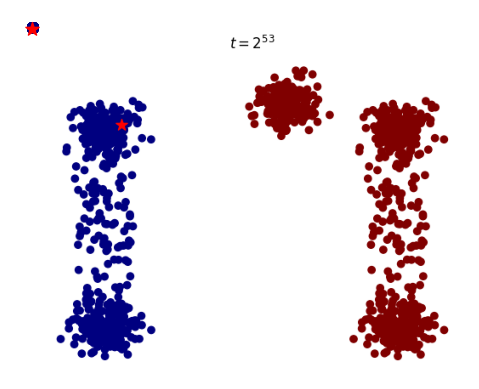
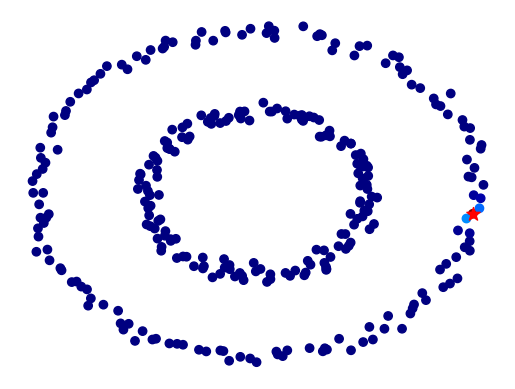
Adds animation of diffusion distanes for circles

Changed region(s): [[0.0292, 0.0308, 0.9645, 0.9563], [0.0585, 0.0308, 0.0877, 0.0925]]

diff --git a/src/diffusion_distances.py b/src/diffusion_distances.py
@@ -11,9 +11,9 @@ from sklearn.metrics.pairwise import euclidean_distances
 
 
 def main():
-    # X, y = make_circles(n_samples=300, noise=0.03, factor=0.5)
+    X, y = make_circles(n_samples=300, noise=0.03, factor=0.5)
     # X, y = make_blobs(n_samples=[300,300,300])
-    X, y = make_bottleneck(100)
+    # X, y = make_bottleneck(100)
 
     sigma = 0.175
     W = kernel(X, sigma)
@@ -28,7 +28,7 @@ def main():
     (U,V) = eigs_ordered( P )
 
     # Hacky way to create an animated plot
-    t_list = [2**x for x in np.arange(np.ceil(np.log2(1e16)))]
+    t_list = [2**x for x in np.arange(np.ceil(np.log2(1e6)))]
     for t in t_list:
         D = diffusion_distances(U, V, t)
         plt.scatter(X[:,0], X[:,1], c=D[:,1], cmap=plt.cm.jet)
@@ -43,12 +43,13 @@ def main():
     for t in t_list:
         img = plt.imread("../temp/dists{}.png".format(t))
         imgs.append([plt.imshow(img)])
+        os.unlink("../temp/dists{}.png".format(t))
 
     ani = animation.ArtistAnimation(fig, imgs)
     plt.axis("off")
 
     writer = animation.PillowWriter(fps=10)
-    ani.save("../output/diffusion.gif", writer=writer)
+    ani.save("../output/diffusion_circles.gif", writer=writer)
 
 
 def make_bottleneck(N):
@@ -158,7 +159,7 @@ def lund(X, sigma, t, k, truncate=0.95, plot_stub="", bw=-1, animate_clustering=
             ixl = np.argmin(D[ix,mask])
             ixy = np.where(mask)[0][ixl]
             y_hat[ix] = y_hat[ixy]
-            if animate_clustering & (counter % 10 == 0):
+            if animate_clustering & (counter % 5 == 0):
                 plt.scatter(X[:,0], X[:,1], c=y_hat, cmap=plt.cm.Paired)
                 plt.scatter(X[ixs_dw[:k],0], X[ixs_dw[:k],1], 
                     marker="*", s=100, c="red")
@@ -171,10 +172,11 @@ def lund(X, sigma, t, k, truncate=0.95, plot_stub="", bw=-1, animate_clustering=
         fig = plt.figure()
         imgs = []
         paths = filter(lambda x: "animate" in x, os.listdir("../temp"))
-        paths.sort(key=lambda x: )
+        paths = sorted(paths, key=lambda x: int("".join(re.findall("\d", x))))
         for p in paths:
             img = plt.imread("../temp/{}".format(p))
             imgs.append([plt.imshow(img)])
+            os.unlink("../temp/{}".format(p))
         
         ani = animation.ArtistAnimation(fig, imgs)
         plt.axis("off")
